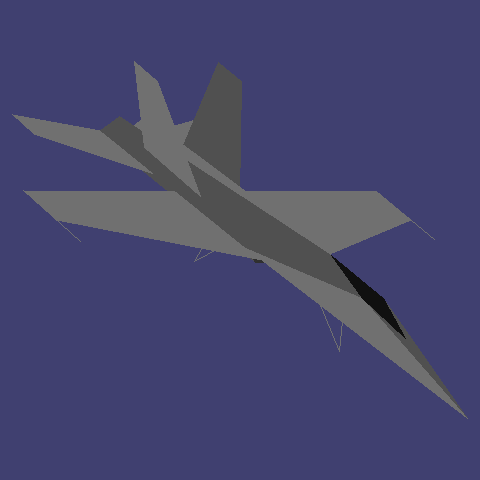
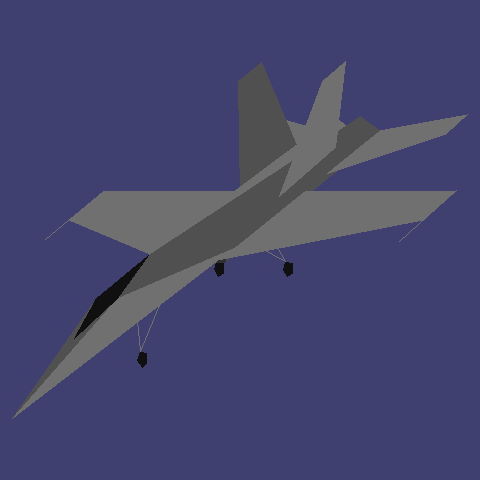
Model pictures corrected: the carrier's deck, uncaptured polygons, clipping
- The colour flags ($8000 double-sided...) had been taken for shadows,
  dropping the carrier's deck and other faces; only colour 0 is a shadow.
- Polygons drawn through ClipFillPolygon's second entry (most special
  operations and most scenery) are now captured.
- The renderer clips to a near plane; the camera distance is chosen so the
  whole shape is in front; the most detailed level is used; the pictures
  are no longer mirrored; animated models drawn at their first frame.
- The pictures and MODELS.md redone: $DC is the rescue pod under a
  parachute; the cruise missile's line drawing; a carrier picture.

Claude-Session: https://claude.ai/code/session_01LbtcUWy6kWuYz7Xe3kf583

Changed region(s): [[0.0312, 0.125, 0.9688, 0.875], [0.7812, 0.375, 0.9375, 0.4688], [0.0625, 0.375, 0.2188, 0.4688]]

diff --git a/original/tools/models/one.py b/original/tools/models/one.py
@@ -1,9 +1,39 @@
-import sys, render, drawmodel as dm
+"""Draw one model (m + ModelTable offset) or scenery shape (s + ObjectDrawTable entry) to a PNG.
+
+one.py KIND N YAW PITCH OUT [DIST [SIZE [TIMER]]]
+
+DIST 0 (the default) places the camera far enough for the whole shape to be in front of it.
+TIMER sets the object's timer (+$4C), which picks the frame of the animated models."""
+import sys, statistics, render, drawmodel as dm
+
 kind, n, yaw, pitch, out = sys.argv[1], int(sys.argv[2], 0), float(sys.argv[3]), float(sys.argv[4]), sys.argv[5]
+dist = int(sys.argv[6], 0) if len(sys.argv) > 6 else 0
+size = int(sys.argv[7]) if len(sys.argv) > 7 else 240
+timer = int(sys.argv[8], 0) if len(sys.argv) > 8 else 10
 pal = render.palette()
-dist = int(sys.argv[6], 0) if len(sys.argv) > 6 else 0x40000
-prims = dm.draw(0, model=n, yaw=yaw, pitch=pitch, dist=dist) if kind == 'm' else dm.draw(n, yaw=yaw, pitch=pitch, dist=dist)
-prims = [p for p in prims if p[1] != 0 and (p[1] & 0xFF00) != 0xFC00]   # the shadows
-render.render(prims, pal, size=int(sys.argv[7]) if len(sys.argv) > 7 else 240,
-              bg=pal[6] if kind == 's' else pal[5], width=2 if kind == 's' else 1).save(out)
-print(len(prims))
+
+
+def draw(d, lod):
+    dm.g.setw(dm.g['ObjectTable'] + 512 + 0x4C, timer)
+    p = dm.draw(0, model=n, yaw=yaw, pitch=pitch, dist=d, lod=lod) if kind == 'm' else \
+        dm.draw(n, yaw=yaw, pitch=pitch, dist=d, lod=lod)
+    return [q for q in p if q[1] & 15 != 0]           # colour 0: the shadows on the ground
+
+
+def fits(prims):
+    """Whether the shape is wholly well in front of the camera."""
+    zs = [v[2] for _, _, ps in prims for v in ps]
+    return not zs or min(zs) > 0.4 * statistics.median(zs)
+
+
+best = []
+for lod in (16, 12, 8, 6, 4, 2, 24, 40):          # the level with the most detail
+    for d in ([dist] if dist else [0x40000, 0x80000, 0x100000, 0x200000, 0x400000]):
+        prims = draw(d, lod)
+        if fits(prims):
+            break
+    if len(prims) > len(best):
+        best = prims
+render.render(best, pal, size=size, bg=pal[6] if kind == 's' else pal[5],
+              width=2 if kind == 's' else 1).save(out)
+print(len(best))

diff --git a/original/tools/models/render.py b/original/tools/models/render.py
@@ -23,12 +23,37 @@ def _palette(label):
     return out
 
 
+NEAR = 16
+
+
+def clip(kind, ps):
+    """Clips a polygon (or a line) to z >= NEAR, as the game clips to its view."""
+    if all(p[2] >= NEAR for p in ps):
+        return ps
+    def cut(a, b):
+        t = (NEAR - a[2]) / (b[2] - a[2])
+        return tuple(a[i] + (b[i] - a[i]) * t for i in range(3))
+    if kind == 'line':
+        a, b = ps[0], ps[-1]
+        if a[2] < NEAR and b[2] < NEAR:
+            return []
+        return [a if a[2] >= NEAR else cut(a, b), b if b[2] >= NEAR else cut(a, b)]
+    out = []
+    for i, a in enumerate(ps):
+        b = ps[(i + 1) % len(ps)]
+        if a[2] >= NEAR:
+            out.append(a)
+        if (a[2] >= NEAR) != (b[2] >= NEAR):
+            out.append(cut(a, b))
+    return out
+
+
 def project(prims, size, margin=12):
     pts = []
     for kind, col, ps in prims:
         for x, y, z in ps:
             if z > 0:
-                pts.append((x / z, -y / z))
+                pts.append((-x / z, -y / z))
     if not pts:
         return None
     x0 = min(p[0] for p in pts); x1 = max(p[0] for p in pts)
@@ -36,18 +61,18 @@ def project(prims, size, margin=12):
     s = (size - 2 * margin) / max(x1 - x0, y1 - y0, 1e-9)
     ox = margin + ((size - 2 * margin) - (x1 - x0) * s) / 2 - x0 * s
     oy = margin + ((size - 2 * margin) - (y1 - y0) * s) / 2 - y0 * s
-    return lambda p: (ox + p[0] / p[2] * s, oy - p[1] / p[2] * s)
+    return lambda p: (ox - p[0] / p[2] * s, oy - p[1] / p[2] * s)
 
 
 def render(prims, pal, size=320, bg=(64, 64, 112), width=1):
     im = Image.new('RGB', (size, size), bg)
     d = ImageDraw.Draw(im)
+    prims = [(k, c, clip(k if len(ps) > 2 else 'line', ps)) for k, c, ps in prims]
     pr = project(prims, size)
     if pr is None:
         return im
     for kind, col, ps in prims:
         c = pal[col & 15]
-        ps = [p for p in ps if p[2] > 0]
         if not ps:
             continue
         xy = [pr(p) for p in ps]

diff --git a/original/tools/models/gallery.py b/original/tools/models/gallery.py
@@ -7,9 +7,10 @@ SIZE = 240
 HERE = os.path.dirname(os.path.abspath(__file__))
 OUT = os.environ.get('OUT', os.path.join(HERE, 'out'))
 os.makedirs(OUT, exist_ok=True)
+
 MODELS = [(0x00, 'Sidewinder'), (0x14, 'AMRAAM'), (0x28, 'Pilot and parachute'), (0x3C, 'F-16'),
           (0x50, 'F/A-18'), (0x64, 'Air Force One'), (0x78, 'MiG'), (0xA0, 'Aircraft carrier'),
-          (0xC8, 'Cruise missile'), (0xDC, 'Box (rescue pod?)'), (0xF0, 'Ship (F6, object 15)'),
+          (0xC8, 'Cruise missile'), (0xDC, 'Rescue pod (box) on parachute'), (0xF0, 'Ship (F6, object 15)'),
           (0x118, 'Airliner (707/767)')]
 
 
@@ -40,7 +41,7 @@ if __name__ == '__main__':
         items = []
         for n, name in MODELS:
             p = '%s/model_%03X.png' % (OUT, n)
-            c = one('m', n, 2.5, 0.45, 0x40000, p)
+            c = one('m', n, 2.5, 0.45, 0, p)
             items.append((p if c else None, '%s ($%02X)%s' % (name, n, '' if c else ': -')))
         sheet(items, OUT + '/models.png')
     else:

diff --git a/original/tools/models/gallery2.py b/original/tools/models/gallery2.py
@@ -24,7 +24,7 @@ def build(entries, path, cols=3):
         for k, (yaw, pitch) in enumerate(((0.45, 0.0), (0.45, -1.25))):
             p = '%s/s%03d_%d.png' % (OUT, n, k)
             if not os.path.exists(p):
-                gallery.one('s', n, yaw, pitch, 0x40000, p)
+                gallery.one('s', n, yaw, pitch, 0, p)
             if os.path.exists(p):
                 im.paste(Image.open(p), (x + k * (S + 2), y + 18))
         d.text((x + 4, y + 3), label, fill=(230, 230, 230))

diff --git a/original/tools/models/drawmodel.py b/original/tools/models/drawmodel.py
@@ -30,7 +30,7 @@ def cap_point(gm):
     return 0
 
 
-g.hook('ClipFillPolygon', cap_poly)
+g.hook('sub_019_00018', cap_poly)   # ClipFillPolygon's second entry, used by most operations
 g.hook('sub_035_001DA', cap_line)
 g.hook('PlotPoint3D', cap_point)
 for nm in ('Nop',):

diff --git a/original/docs/MODELS.md b/original/docs/MODELS.md
@@ -5,7 +5,7 @@ assembled executable into a 68000 emulator ([unicorn](https://www.unicorn-engine
 an object and a camera, and calls the game's draw routine for a model (`DrawModel`, hunk 10).
 It then captures what the game would have drawn:
 
-* the filled polygons, from `ClipFillPolygon`;
+* the filled polygons, from `ClipFillPolygon` (both of its entries);
 * the lines and the points.
 
 Each primitive is captured in the camera's space and drawn again with Python's PIL, in the
@@ -15,12 +15,23 @@ Each picture is scaled to fit its panel, so sizes cannot be compared between pic
 
 ## How the pictures were made
 
+The first version of these pictures had faults, since corrected:
+
+* The carrier's deck and other parts were missing. The colour flag `$FCxx` had been taken for a
+  shadow, so those faces were left out.
+* The polygons drawn through `ClipFillPolygon`'s second entry were not captured. Most of the
+  scenery uses that entry.
+* Shapes that reached behind the camera were drawn without clipping.
+* The pictures were mirrored.
+
 The pictures were made this way:
 
-* The shadows on the ground are left out (colour 0 and colours `$FCxx`).
-* The vertical axis is flipped to stand the shapes upright.
-* The view is mirrored left to right, as an image flipped top to bottom is.
-* Each picture uses one level of detail, the one picked at the distance the tool sets.
+* The shadows on the ground (colour 0) are left out. The top bits of a colour word are flags
+  (for example `$8000`, drawn from both sides), not shadows.
+* The camera is turned round the object, which stays still, and placed far enough away for the
+  whole shape to be in front of it. What crosses the near plane is clipped, as in the game.
+* Each picture uses the level of detail that gives the most detail.
+* The animated models are drawn at their first frame, the timer `+$4C` at 10.
 
 ## The models
 
@@ -30,17 +41,24 @@ The models in `ModelTable` (hunk 16), the objects placed by the missions:
 
 ![The F/A-18](images/fa18.png)
 
+![The carrier](images/carrier.png)
+
 Notes on the models:
 
 * The Sidewinder and the AMRAAM are drawn with lines only: a body, the fins and a long line
   behind, probably the smoke trail.
 * `$28` (also used as `$104`, the downed pilot of mission F4) is a pilot under his parachute.
+  Its frames (by the timer) show the canopy opening, then lying collapsed on the ground.
 * The aircraft have their landing gear down here.
 * The two MiG entries share one dark shape.
+* The carrier has a dark flight deck, the angled deck stepped along one side, the island and a
+  hull under part of the deck.
 * One airliner model serves as Air Force One, the 707 and the 767.
 * `$F0`, object 15 of mission F6, is a ship like the carrier.
-* `$DC` is a plain box, perhaps the rescue pod.
-* The cruise missile (`$C8`) comes out as a flat panel at this distance.
+* `$DC` is a box under a parachute: the rescue pod of mission F4. Its frames show the canopy
+  opening, then the box on the ground.
+* The cruise missile (`$C8`) is drawn with lines, like the Sidewinder and the AMRAAM. Its
+  nearest level of detail draws a single large panel, which looks wrong and is not shown.
 
 ## The scenery
 
@@ -56,18 +74,18 @@ Francisco Bay area. Each is shown from the side, then from above:
 Some can be recognised:
 
 * the Golden Gate Bridge in two halves (32, 33, red);
-* the Bay Bridge in sections (34-41);
+* the Bay Bridge and the bay's other bridges and causeways, in sections (34-41);
 * the Transamerica Pyramid (46);
 * Coit Tower (48);
 * Sutro Tower (49, red and white);
 * airfield control towers (86, 87).
 
 Most of the rest are runway and taxiway markings, drawn as lines. They include the runways'
-numbers (for example 64, 65), which come out mirrored by the flip.
+numbers (for example 64, 65).
 
 Some shapes are not shown:
 
-* Shapes 17-19, 30, 42, 51, 56, 57, 71, 72 and 117 draw nothing with the tool's settings.
+* Shapes 17-19 and 51, and a few others, draw nothing with the tool's settings.
 * The shapes drawn by hunk 12's own renderer (`DrawGroundShape`: 20-26, 82-85, 89, 90 and 93-116,
   mostly hunk 70) are not captured yet. Their output does not go through the routines the tool
   hooks.
@@ -79,8 +97,8 @@ pip install unicorn pillow
 cd tools/models
 python3 gallery.py models          # out/models.png
 python3 gallery2.py x              # out/scenery_a.png, out/scenery_b.png
-python3 one.py m 0x50 2.5 0.45 out/fa18.png 0x40000 480   # one model: m + ModelTable offset
-python3 one.py s 33 0.45 0.0 out/gg.png 0x40000 480        # one scenery shape: s + entry
+python3 one.py m 0x50 2.5 0.45 out/fa18.png 0 480   # one model: m + ModelTable offset
+python3 one.py s 33 0.45 0.0 out/gg.png 0 480        # one scenery shape: s + entry
 ```
 
 The tool assembles the source with its labels first (`vasmm68k_mot` must be on the path), so
